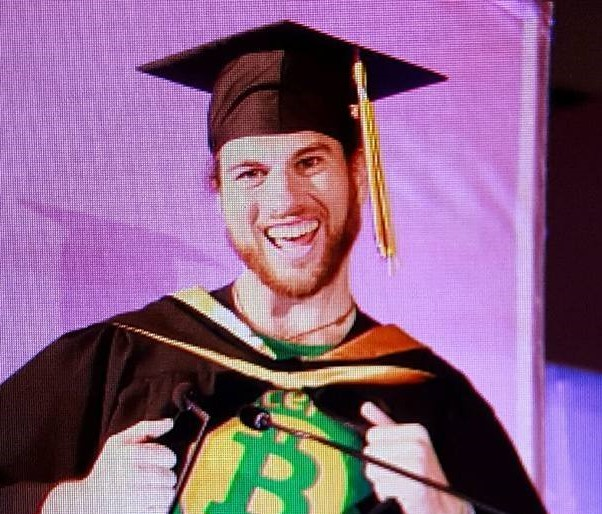
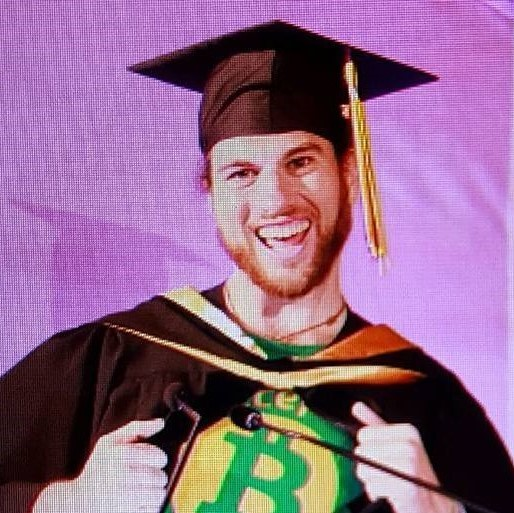
Speakers section on the main page

diff --git a/_includes/head.html b/_includes/head.html
@@ -6,6 +6,7 @@
 
   <title>{% if page.title %}{{ page.title | escape }}{% else %}{{ site.title | escape }}{% endif %}</title>
   <meta name="description" content="{% if page.excerpt %}{{ page.excerpt | strip_html | strip_newlines | truncate: 160 }}{% else %}{{ site.description }}{% endif %}">
+  <meta property="og:image" content="http://dogecon.fun/images/posters/dogecon_event.png" />
 
   <!--  Import Bootstrap CSS -->
   <link rel="stylesheet" href="https://maxcdn.bootstrapcdn.com/bootstrap/4.0.0-alpha.2/css/bootstrap.min.css" integrity="sha384-y3tfxAZXuh4HwSYylfB+J125MxIs6mR5FOHamPBG064zB+AFeWH94NdvaCBm8qnd" crossorigin="anonymous">
@@ -23,5 +24,4 @@
   <link rel="stylesheet" href="{{ "/css/main.css" | prepend: site.baseurl }}">
   <link rel="canonical" href="{{ page.url | replace:'index.html','' | prepend: site.baseurl | prepend: site.url }}">
   <link rel="alternate" type="application/rss+xml" title="{{ site.title }}" href="{{ "/feed.xml" | prepend: site.baseurl | prepend: site.url }}">
-  <meta property="og:image" content="http://dogecon.fun/images/posters/dogecon_event.png" />
 </head>

diff --git a/_sass/_base.scss b/_sass/_base.scss
@@ -190,6 +190,15 @@ pre {
 }
 
 //DOGECON THEME
+.dogeMask { 
+    mask-image: url(/images/dogeMask.png);
+    mask-size: cover;
+    -webkit-mask-image: url(/images/dogeMask.png);
+    -webkit-mask-size: cover;
+    -moz-mask-image: url(/images/dogeMask.png);
+    -moz-mask-size: cover;
+}
+
 .horizontallyCenter {
     display: flex;
     justify-content: center;
@@ -242,7 +251,7 @@ pre {
 
     .oneThirdWidth {
         display: flex;
-        max-width: 33%;
+        max-width: 25%;
         min-width: 200px;
     }
     

diff --git a/index.md b/index.md
@@ -22,6 +22,58 @@ nav_txt_color: hsl(275, 100%, 25%, 1)
   <br>
   <br>
 
-#### Early confirmed speakers include [Bob Summerwill](http://www.bobsummerwill.com), [Brittany Kaiser](http://www.newsweek.com/who-brittany-kaiser-ex-cambridge-analytica-director-warns-facebook-leak-much-889609), [Jaya Klara Brekke](http://www.jayapapaya.net), and [Griff Green](https://giveth.io/); artists including [Markus Zimmermann](https://riat.at/people/markus-zimmermann/) and [David Foox](http://www.bitxbitmovie.com/); and live media coverage from [Dogecoin Millionaire](https://twitter.com/sabotagebeats) and [#Blocktalk](https://www.youtube.com/channel/UCpfB0lyoKDCKX8wZ7a-K-dw). We have tons more surprises which will be announced in due time -- for now, we're controlling the flow of information to tantalize and inspire...
+## Speakers
+
+<div class="tiles">
+  <div class="columnTile oneThirdWidth">
+    <img class="dogeMask" src="/images/speakers/jacksonpalmer.png" />
+    <h3><a href="https://ummjackson.com/" target="_blank">Jackson Palmer</a></h3>
+    <p>Creator of Dogecoin; crypto coder & cultural commentator</p>
+  </div>
+  <div class="columnTile oneThirdWidth">
+    <img class="dogeMask" src="/images/speakers/bobsummerwill.jpeg" />
+    <h3><a href="https://bobsummerwill.com/" target="_blank">Bob Summerwill</a></h3>
+    <p>Ethereum trailblazer; uniter of chains & tribes</p>
+  </div>
+  <div class="columnTile oneThirdWidth">
+    <img class="dogeMask" src="/images/speakers/griffgreen.jpg" />
+    <h3><a href="https://giveth.io/" target="_blank">Griff Green</a></h3>
+    <p>Giveth founder; decentralist and white-hat community hero</p>
+  </div>
+  <div class="columnTile oneThirdWidth">
+    <img class="dogeMask" src="/images/speakers/maxborders.jpeg" />
+    <h3><a href="http://social-evolution.com/" target="_blank">Max Borders</a></h3>
+    <p>Voice & Exit founder; Social Evolution Executive Director</p>
+  </div>
+  <div class="columnTile oneThirdWidth">
+    <img class="dogeMask" src="/images/speakers/taylorgerring.jpeg" />
+    <h3><a href="https://blockchain.wtf/" target="_blank">Taylor Gerring</a></h3>
+    <p>Ethereum Foundation co-founder;creator of Blockchain.WTF</p>
+  </div>
+  <div class="columnTile oneThirdWidth">
+    <img class="dogeMask" src="/images/speakers/johnlight.jpeg" />
+    <h3><a href="https://lightco.in/" target="_blank">John Light</a></h3>
+    <p>Aragon community lead; Bitseed co-founder</p>
+  </div>
+  <div class="columnTile oneThirdWidth">
+    <img class="dogeMask" src="/images/speakers/marieagar.jpg" />
+    <h3><a href="http://www.digitalfutures.co/mari-eagar/" target="_blank">MaRi Eagar</a></h3>
+    <p>DigitalFutures co-founder; Vancouver blockchain community leader</p>
+  </div>
+  <div class="columnTile oneThirdWidth">
+    <img class="dogeMask" src="/images/speakers/louisparker.jpg" />
+    <h3><a href="http://archetype.mx/" target="_blank">Louis Parker</a></h3>
+    <p>Archetype.mx co-founder; meme-master extraordinaire</p>
+  </div>
+  <div class="columnTile oneThirdWidth">
+    <img class="dogeMask" src="/images/speakers/andersaamodt.jpg" />
+    <h3><a href="http://andersaamodt.com/" target="_blank">Anders Aamodt</a></h3>
+    <p>Holo community coordinator; Xenogaming theorist</p>
+  </div>
+</div>
+
+… and many more confirmations rolling in! We’ll update as the RSVPs arrive :-)
+
+We’ll also have the pleasure of many community and media partnerships with [Dogecoin Millionaire](https://twitter.com/sabotagebeats) livetweeting, [#BlockTalk](https://www.youtube.com/channel/UCpfB0lyoKDCKX8wZ7a-K-dw) conducting on-the-scene interviews, and participation from [Vancouver Co-op Radio](http://www.coopradio.org/), [Blockchain@UBC](https://blockchainubc.ca/), [Tom and Gary’s Decentralized Dance Party](www.theddp.com), [DCTRL community commons](www.dctrl.ca) and more!
 
 # [Checkout our blog for updates.](http://medium.com/dogecon)

diff --git a/mainpages/engage.md b/mainpages/engage.md
@@ -17,7 +17,7 @@ nav_txt_color: hsl(275, 100%, 25%, 1)
 
 Volunteers are always welcome to help out at any level before and during the events. As a gesture of gratitude, we offer one free weekend pass to the volunteers who meet the following requirements:
 
-* [Fill out our volunteer interest form with your availability](https://goo.gl/forms/jFIiIAHv9RTlGZWE2)
+* [Click here to fill out our volunteer interest form with your availability](https://goo.gl/forms/jFIiIAHv9RTlGZWE2)
 * Upon being accepted, join our Slack team and introduce yourself in #new_volunteers
 * Join us for a digital orientation session via Google Hangouts in the week before Dogecon
 * Sign up for, and complete, 2 shifts of 4 hours’ duration during Dogecon (please arrive 15 minutes early  for your shift-- we will not keep you late after)
